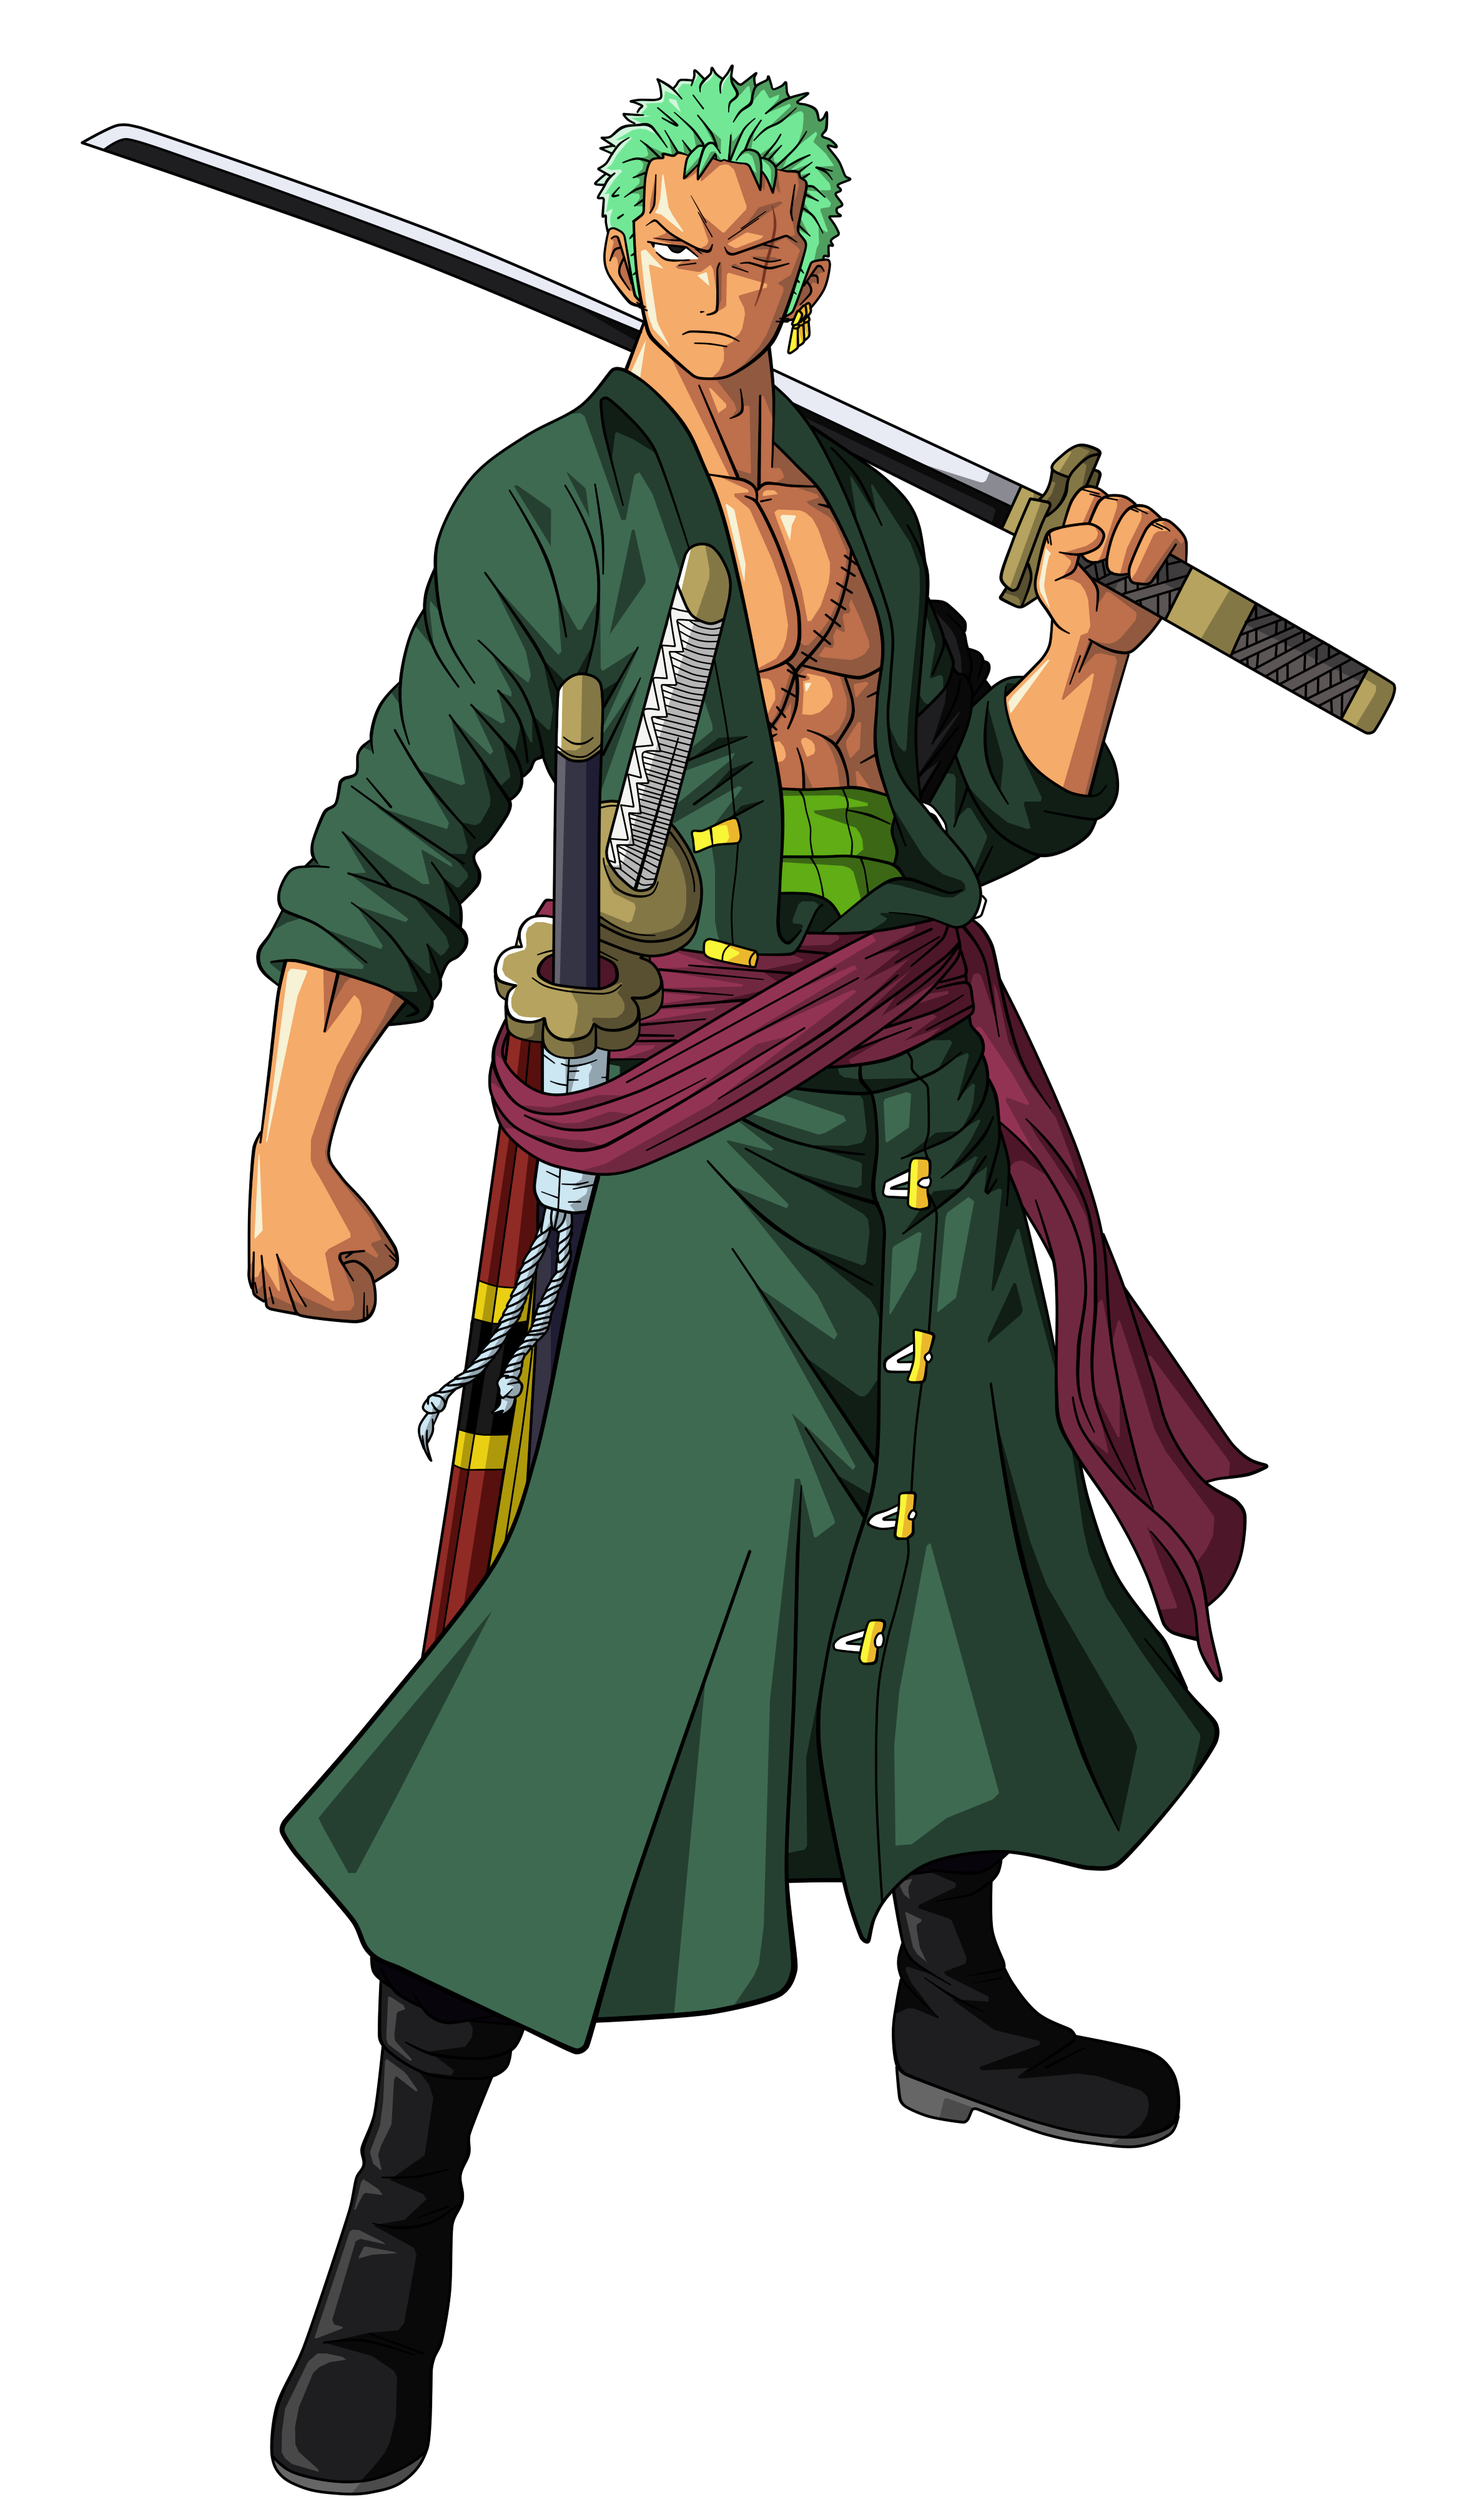
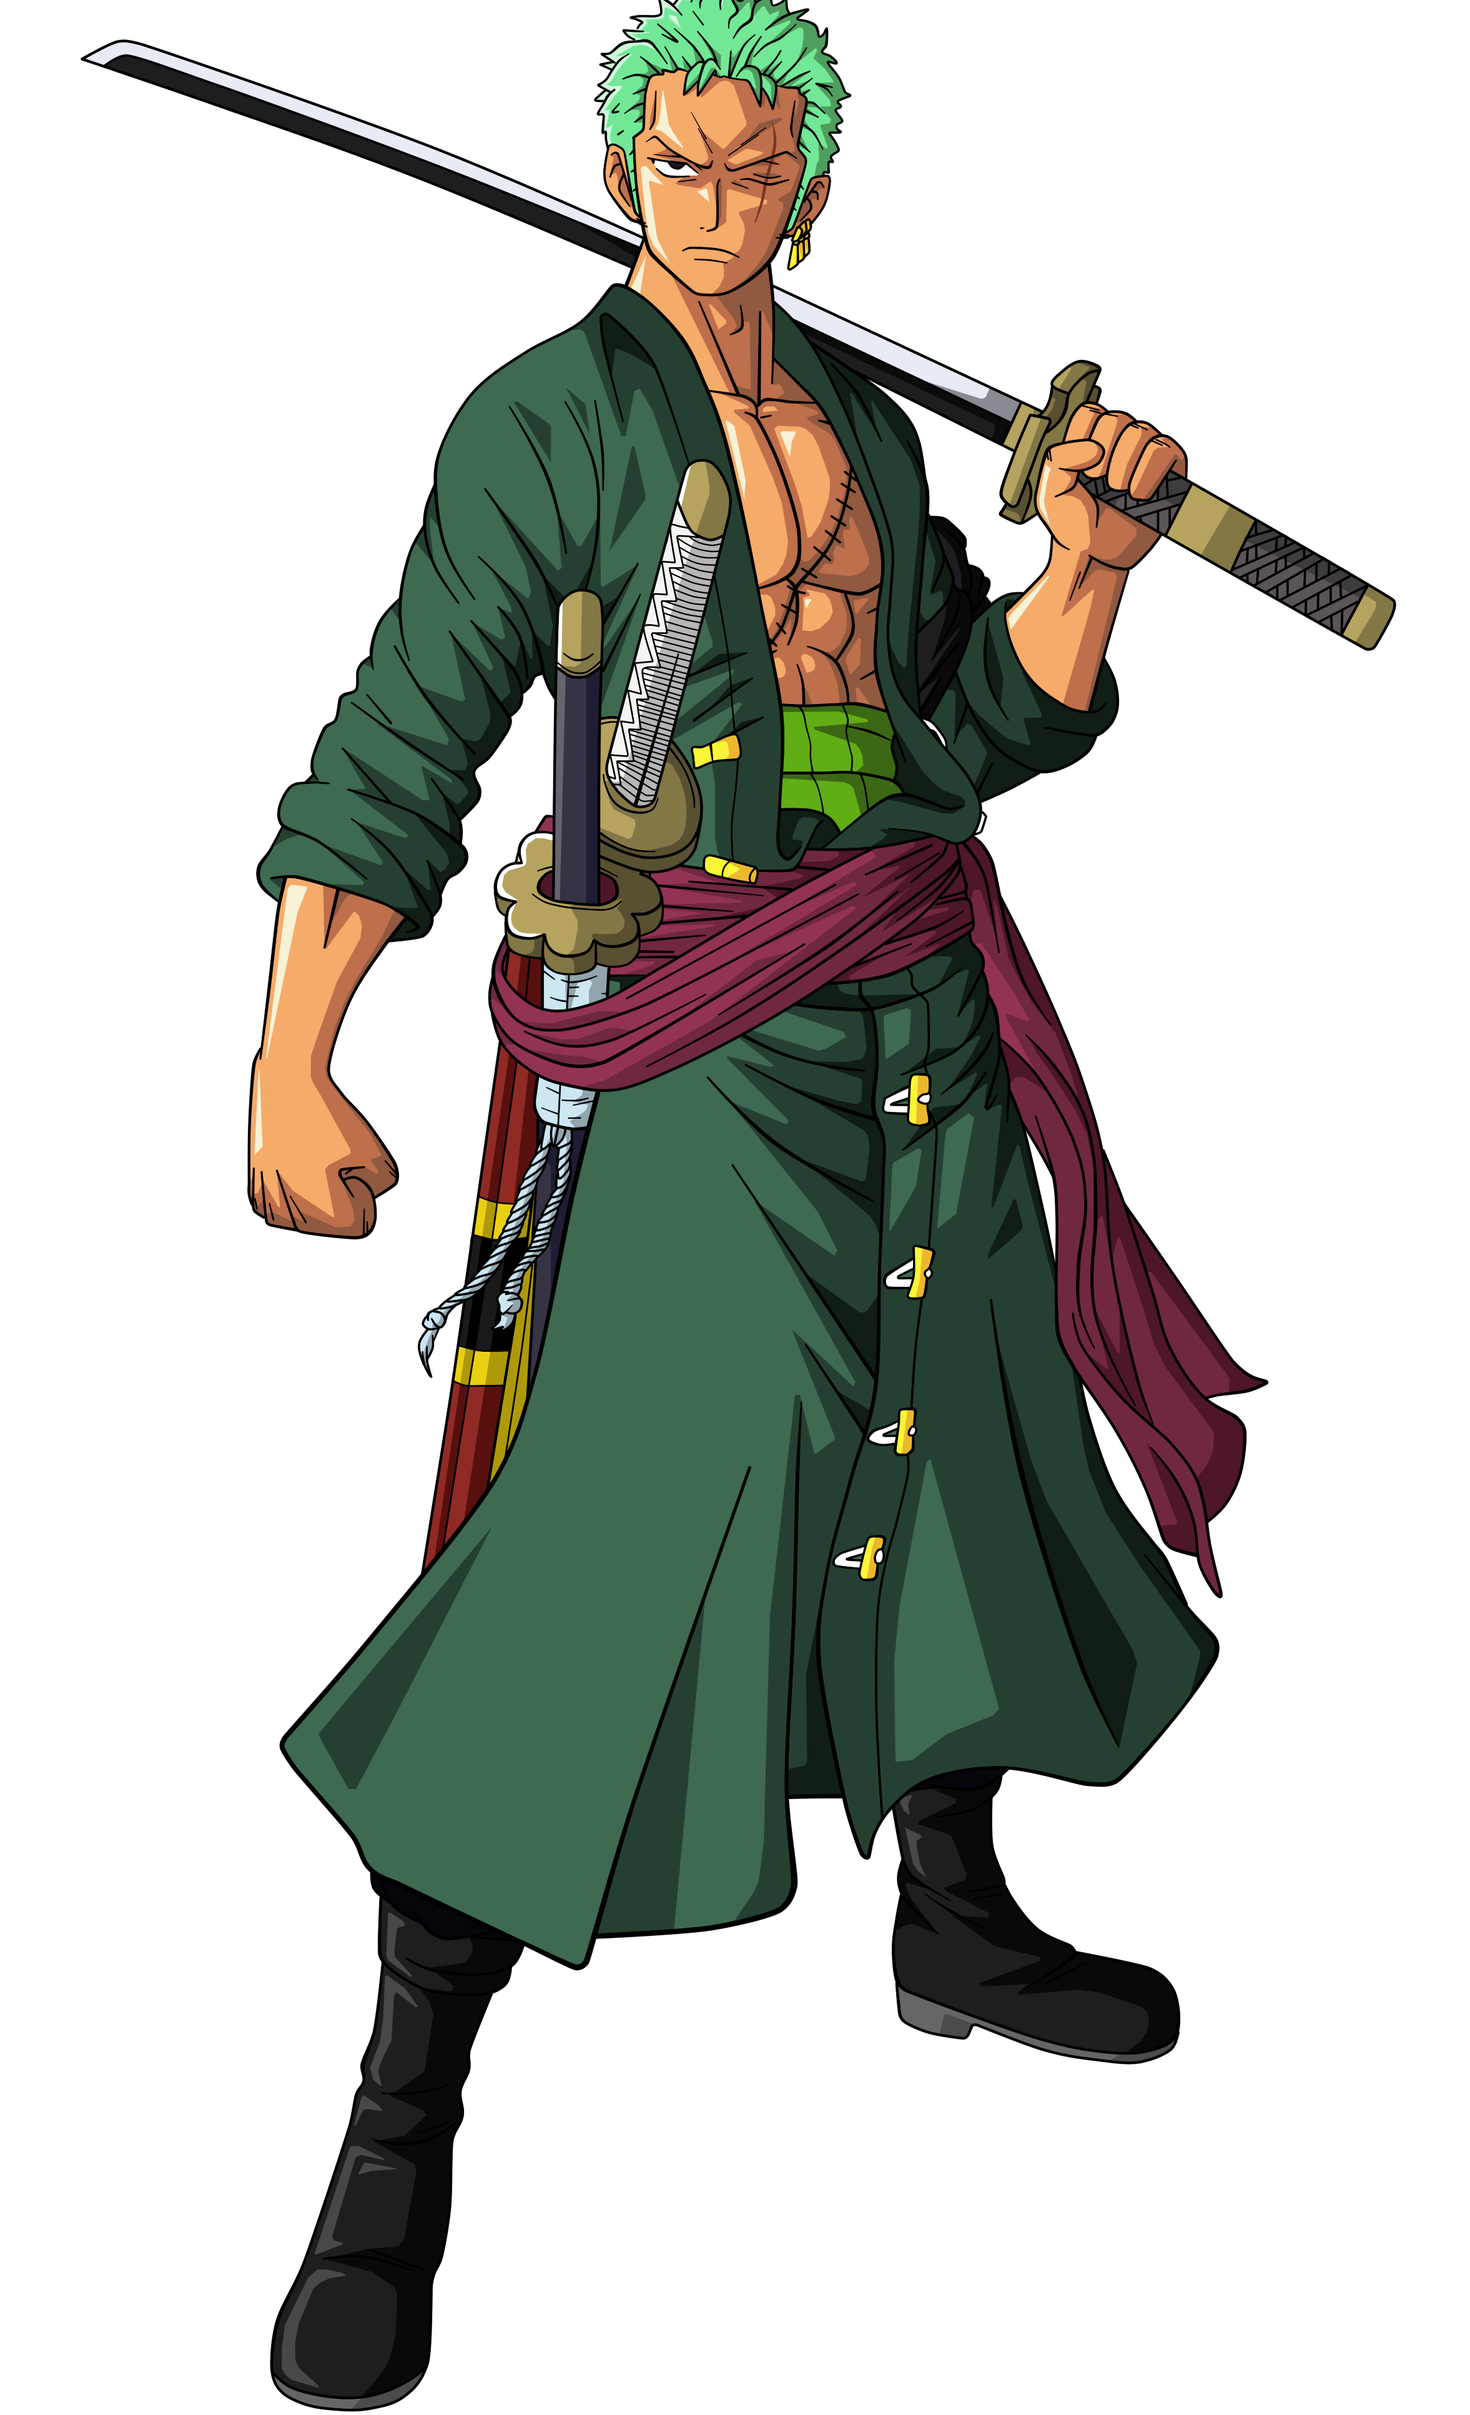
CSS card com 3 personagens

diff --git a/style.css b/style.css
@@ -137,6 +137,7 @@ input {
     margin-bottom: 16px;
 }
 
+/* Texto da bio */
 .body-text {
     color: #FFF;
     font-family: Poppins;
@@ -147,10 +148,82 @@ input {
     padding-left: 32px;
 }
 
+/* Config da imagem */
 .bio-shanks-img {
     width: 460px;
     height: auto;
     position: absolute;
     top: -120px;
     right: 20px;
+}
+
+/* Config bio 3 personagens */
+.personagens-bio {
+    display: flex;
+    margin-top: 128px;
+}
+
+.zoro-bio {
+    width: 349.33px;
+    height: 597px;
+    flex-shrink: 0;
+    background: #1E1E1E;
+    margin-left: 128px;
+    margin-right: 20px;
+
+    text-align: center;
+    align-items: center;
+    display: flex;
+    flex-direction: column;
+    justify-content: center;
+}
+
+.luffy-bio {
+    width: 349.33px;
+    height: 597px;
+    flex-shrink: 0;
+    background: #727272;
+    margin-right: 20px;
+
+    text-align: center;
+    align-items: center;
+    display: flex;
+    flex-direction: column;
+    justify-content: center;
+}
+
+.sanji-bio {
+    width: 349.33px;
+    height: 597px;
+    flex-shrink: 0;
+    background: #1E1E1E;
+
+    text-align: center;
+    align-items: center;
+    display: flex;
+    flex-direction: column;
+    justify-content: center;
+}
+
+.img-bio-3 {
+    max-width: 100%;
+    max-height: 100%;
+    margin-top: -80px;
+    z-index: 1;
+}
+
+.titles-bio-3 {
+    color: #FFF;
+    font-family: Poppins;
+    font-size: 30px;
+    font-style: normal;
+    font-weight: 700;
+    line-height: normal;
+    text-align: center;
+    margin-top: 16px;
+    margin-bottom: 32px;
+
+    margin: 0;
+    margin-bottom: 144px;
+    margin-top: 24px;
 }

diff --git a/index.html b/index.html
@@ -36,25 +36,24 @@
                 <h4>pirata. Shanks é famoso por seu olho perdido, sacrificado para</h4>
                 <h4>salvar Luffy, e sua busca pelo One Piece.</h4>
             </div>
-
             <img src="anexos/shanks IMG.png" alt="Personagem Shanks" class="bio-shanks-img">
         </div>
         
         <!-- Esta div se refere as caixas de biografia interativa dos personagens -->
-        <div class="perosonagens-bio">
+        <div class="personagens-bio">
             <div class="zoro-bio">
-                <img src="anexos/zoro.png" alt="Personagem Zoro">
-                <h1 class="titles">Zoro</h1>
+                <img src="anexos/zoro.png" alt="Personagem Zoro" class="img-bio-3">
+                <h1 class="titles-bio-3" id="title-zoro">Zoro</h1>
             </div>
 
             <div class="luffy-bio">
-                <img src="anexos/luffy.png" alt="Personagem Luffy">
-                <h1 class="titles">Luffy</h1>
+                <img src="anexos/luffy.png" alt="Personagem Luffy" class="img-bio-3">
+                <h1 class="titles-bio-3" id="title-luffy">Luffy</h1>
             </div>
 
             <div class="sanji-bio">
-                <img src="anexos/sanji.png" alt="Personagem Sanji">
-                <h1 class="titles">Sanji</h1>
+                <img src="anexos/sanji.png" alt="Personagem Sanji" class="img-bio-3">
+                <h1 class="titles-bio-3" id="title-sanji">Sanji</h1>
             </div>
         </div>
 
